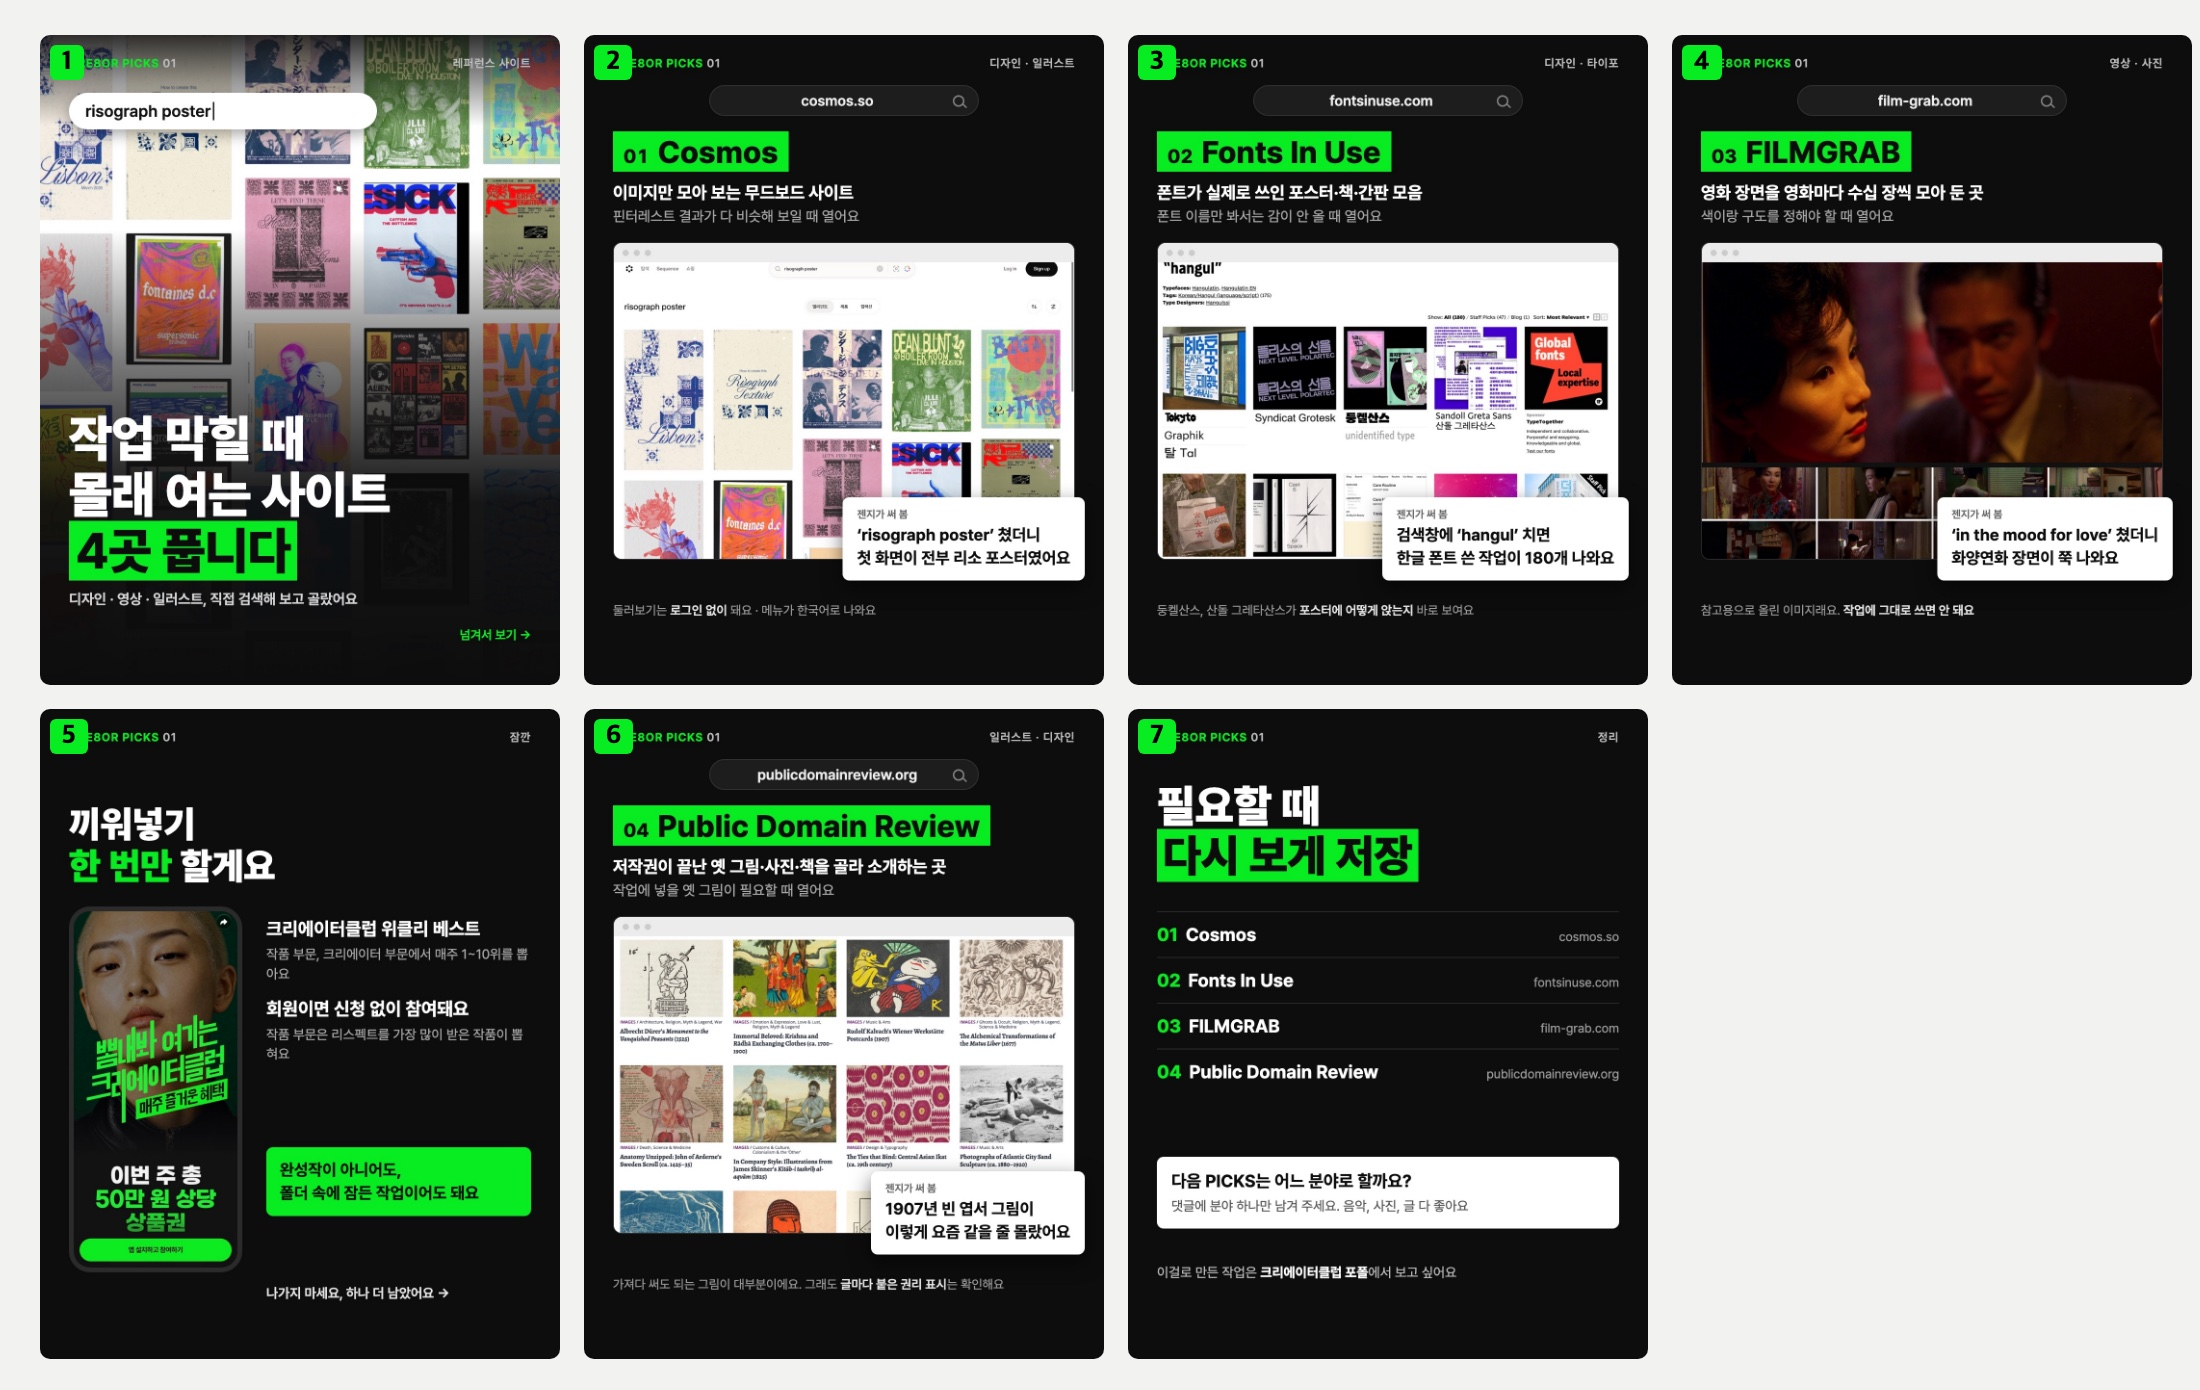
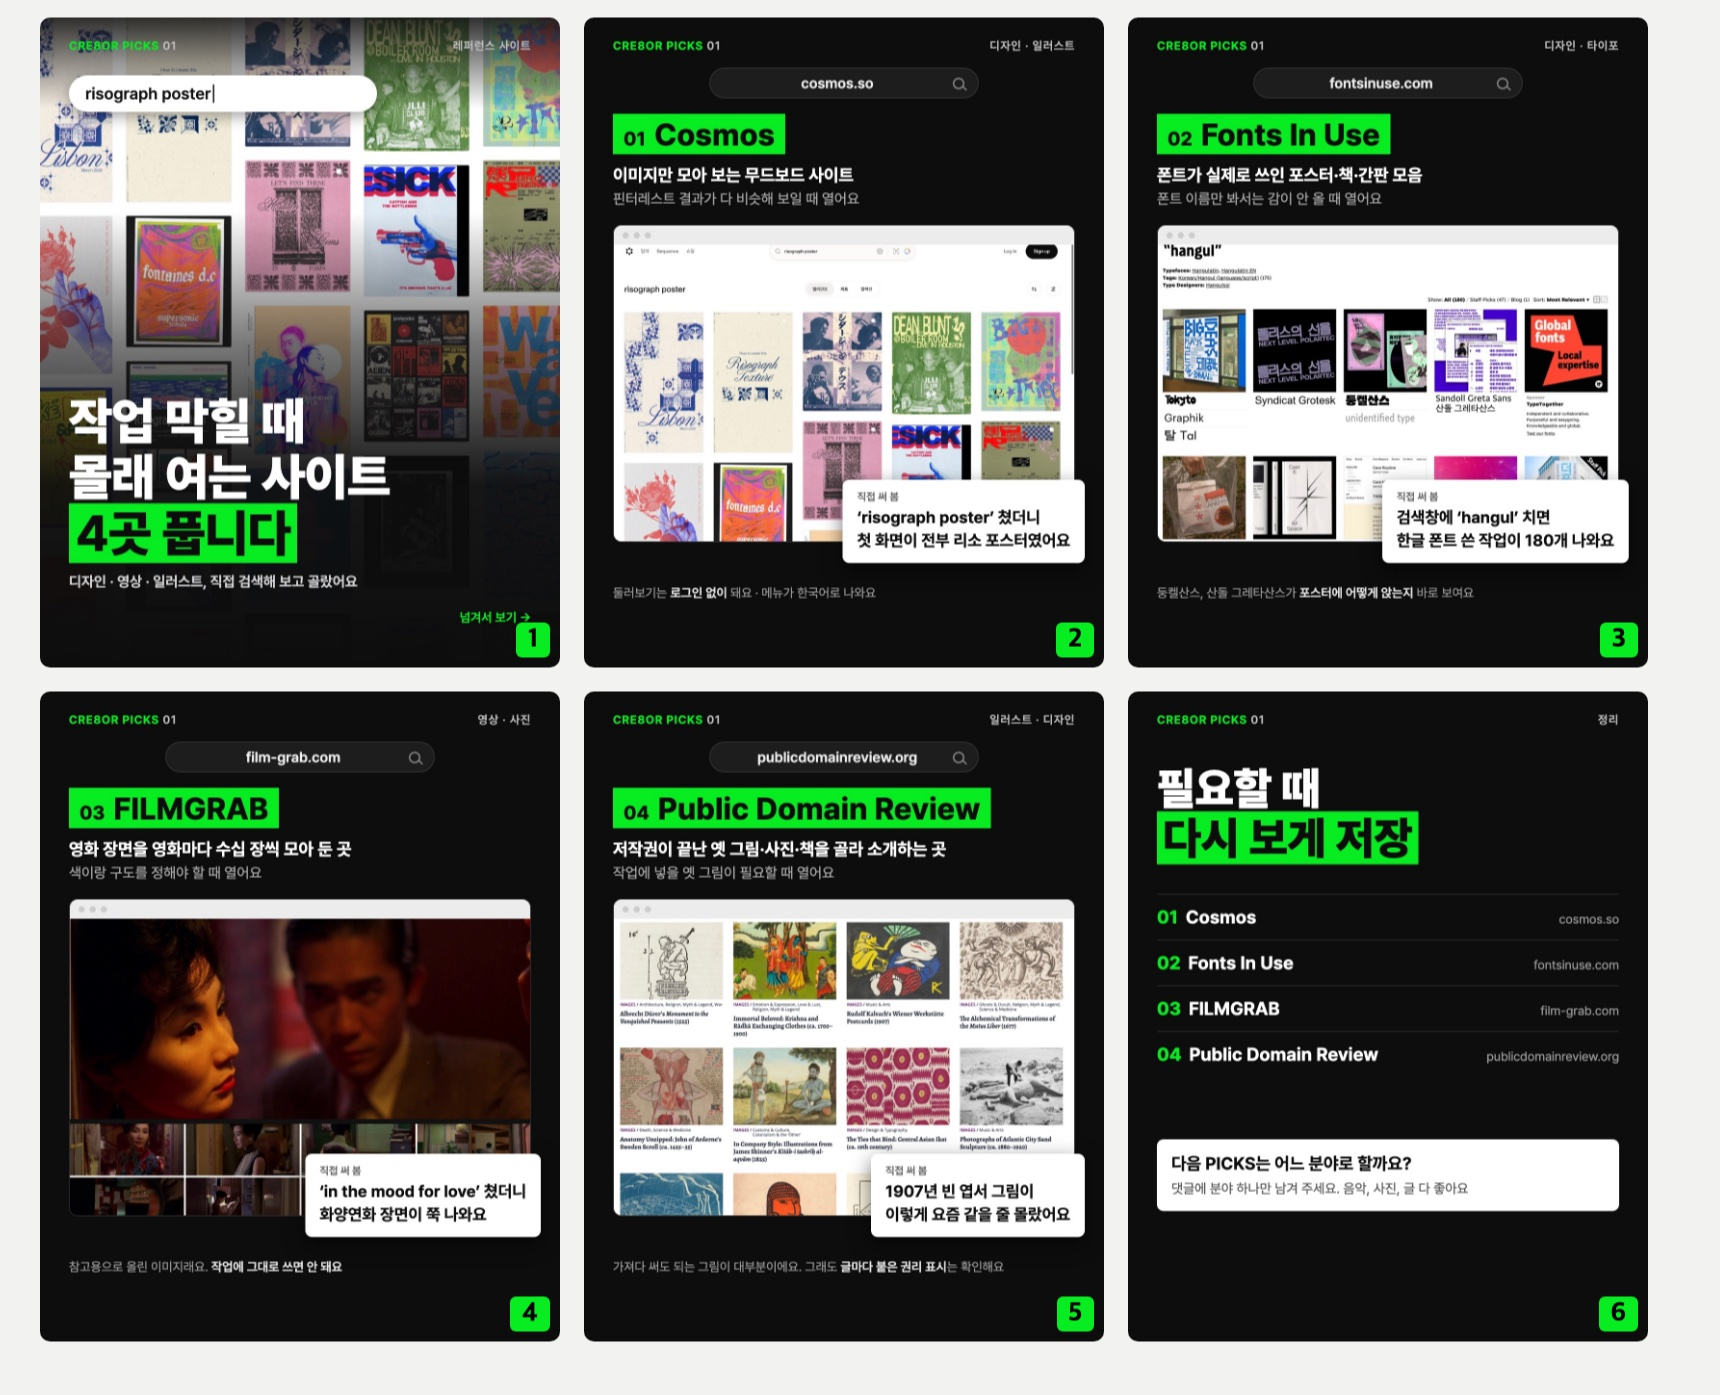
Deploy c8-insta-picks01-261030 → public-pages/ (redeploy, 2026-11-02)

diff --git a/c8-insta-picks01-261030/index.html b/c8-insta-picks01-261030/index.html
@@ -6,7 +6,7 @@
 <meta name="robots" content="noindex, nofollow">
 <title>인스타 시안 — CRE8OR PICKS 01 작업 막힐 때 몰래 여는 사이트</title>
 <meta property="og:title" content="인스타 시안 — CRE8OR PICKS 01 작업 막힐 때 몰래 여는 사이트">
-<meta property="og:description" content="창작자 레퍼런스 사이트 모음, 팁 모음형 캐러셀 7장 시안">
+<meta property="og:description" content="창작자 레퍼런스 사이트 모음, 팁 모음형 캐러셀 6장 시안">
 <meta property="og:image" content="slides/01.jpg">
 <style>
   * { box-sizing:border-box; margin:0; padding:0; }
@@ -47,9 +47,10 @@
 </head>
 <body>
 <div class="wrap">
-  <span class="tag">인스타 시안 · 팁 모음형 · CRE8OR PICKS 01 · 10/30</span>
+  <span class="tag">인스타 시안 · 팁 모음형 · CRE8OR PICKS 01 · 11/2 고침</span>
+  <div class="card" style="border:2px solid #07ED21"><h2>11/2 고친 것</h2><p>중간에 넣었던 위클리 베스트 광고 장을 뺐어요. 정보 전달 편이니 사이트 넷만 담백하게 보여 주고, 마지막 장의 크리에이터클럽 홍보 한 줄도 뺐어요. 7장 → 6장.</p></div>
   <h1>작업 막힐 때 몰래 여는 사이트 4곳 풉니다</h1>
-  <p class="sub">2EZ 「레퍼런스 계정·사이트 모음」의 틀(한 장에 하나 · 검색창 · 실제 화면 · 써 본 한마디 · 중간 끼워넣기 · 끝 저장)을 빌려 창작자용으로 만들었어요. 네 곳 모두 젠지가 10/30에 직접 열어 검색해 봤고, 장 안 화면은 그때 찍은 실제 화면이에요. 아직 시안이고 인스타에는 올리지 않았어요.</p>
+  <p class="sub">2EZ 「레퍼런스 계정·사이트 모음」의 틀(한 장에 하나 · 검색창 · 실제 화면 · 써 본 한마디 · 끝 저장)을 빌려 창작자용으로 만들었어요. 네 곳 모두 젠지가 10/30에 직접 열어 검색해 봤고, 장 안 화면은 그때 찍은 실제 화면이에요. 아직 시안이고 인스타에는 올리지 않았어요.</p>
   <div class="row">
     <div>
       <div class="phone">
@@ -57,11 +58,11 @@
         <div class="phead"><div class="av">C8</div><b>cre8orclub</b></div>
         <div class="media">
           <div class="track" id="track">
-            <img src="slides/01.jpg" alt="표지: 작업 막힐 때 몰래 여는 사이트 4곳 풉니다. 뒤에 리소 포스터 검색 결과가 꽉 차 있다"><img src="slides/02.jpg" alt="01 Cosmos 무드보드 사이트"><img src="slides/03.jpg" alt="02 Fonts In Use 폰트 실제 사용 사례"><img src="slides/04.jpg" alt="03 FILMGRAB 영화 장면 모음"><img src="slides/05.jpg" alt="끼워넣기 한 번만 할게요: 크리에이터클럽 위클리 베스트"><img src="slides/06.jpg" alt="04 Public Domain Review 저작권 끝난 옛 그림"><img src="slides/07.jpg" alt="필요할 때 다시 보게 저장, 다음 PICKS 분야 댓글">
+            <img src="slides/01.jpg" alt="표지: 작업 막힐 때 몰래 여는 사이트 4곳 풉니다. 뒤에 리소 포스터 검색 결과가 꽉 차 있다"><img src="slides/02.jpg" alt="01 Cosmos 무드보드 사이트"><img src="slides/03.jpg" alt="02 Fonts In Use 폰트 실제 사용 사례"><img src="slides/04.jpg" alt="03 FILMGRAB 영화 장면 모음"><img src="slides/05.jpg" alt="04 Public Domain Review 저작권 끝난 옛 그림"><img src="slides/06.jpg" alt="필요할 때 다시 보게 저장, 다음 PICKS 분야 댓글">
           </div>
           <button class="nav p" id="prev" aria-label="이전">‹</button>
           <button class="nav n" id="next" aria-label="다음">›</button>
-          <span class="count" id="count">1/7</span>
+          <span class="count" id="count">1/6</span>
         </div>
         <div class="acts"><span>♡</span><span>💬</span><span>↗</span><span class="s">⌑</span></div>
         <div class="cap"><b>cre8orclub</b>작업 막힐 때 몰래 여는 사이트 4곳이에요.
@@ -76,7 +77,7 @@
 다음 PICKS는 어느 분야로 할까요? 댓글에 분야 하나만요.
 #크리에이터클럽 #CRE8ORPICKS #레퍼런스 #레퍼런스사이트 #무드보드 #디자인레퍼런스 #타이포그래피 #영상레퍼런스</div>
       </div>
-      <p class="hint">사진을 옆으로 밀거나 ‹ › 를 누르면 7장을 넘겨 볼 수 있어요</p>
+      <p class="hint">사진을 옆으로 밀거나 ‹ › 를 누르면 6장을 넘겨 볼 수 있어요</p>
     </div>
     <div class="side">
       <div class="card">
@@ -86,7 +87,6 @@
           <li>도움: 장마다 사이트 하나, 검색어 하나, 언제 여는지 한 줄. 저장해 두면 바로 써먹어요.</li>
           <li>팔로우할 이유: 「CRE8OR PICKS 01」로 번호를 달고, 끝에 다음 분야를 댓글로 받아요.</li>
           <li>보낼 사람: 같이 작업하는 친구한테 「이거 저장해」. 받고 싶은 댓글: 「음악」「사진」 같은 분야 하나.</li>
-          <li>C8은 5장 「끼워넣기 한 번만 할게요」와 마지막 장 한 줄뿐이에요. 홍보 티는 웃고 넘어가요(2EZ 6장에서 빌림).</li>
         </ul>
       </div>
       <div class="card">
@@ -96,7 +96,6 @@
           <li>Fonts In Use: 「hangul」 검색 → All (180), 한글 태그 175개. 둥켈산스·산돌 그레타산스 사례가 첫 줄에 나옴.</li>
           <li>FILMGRAB: 「in the mood for love」 검색 → 화양연화 페이지, 장면 스틸 수십 장. 사이트 설명: 「참고와 교육 목적으로만 올린 이미지」.</li>
           <li>Public Domain Review: 이미지 모음 첫 화면에 1907년 칼바흐 빈 공방 엽서. 저작권 끝난 작품을 다루고 글마다 권리 표시를 붙여요.</li>
-          <li>위클리 베스트: 실제 이벤트 페이지(10/30)에서 「회원이면 신청 없이 참여」「작품·크리에이터 부문 각 1~10위」「폴더 속에 잠들어 있는 것도 괜찮아요」를 확인했어요.</li>
         </ul>
       </div>
       <div class="card">
@@ -104,18 +103,17 @@
         <ul>
           <li>장 안 사이트 화면에는 남의 작업(포스터·영화 장면)이 보여요. 출처 사이트 이름을 장마다 적었지만, 캡처를 써도 될지는 올리기 전 확인이 필요해요.</li>
           <li>음악 분야 사이트는 못 넣었어요(후보 사이트가 자동 접속을 막아 직접 확인을 못 함). 첫 호는 디자인·영상·일러스트 넷이에요.</li>
-          <li>5장 휴대폰 화면은 앱이 아니라 웹 이벤트 페이지 실제 캡처예요. 주차가 바뀌면 문구가 바뀔 수 있어요.</li>
         </ul>
       </div>
     </div>
   </div>
   <div class="grid">
-    <img src="slides/01.jpg" alt=""><img src="slides/02.jpg" alt=""><img src="slides/03.jpg" alt=""><img src="slides/04.jpg" alt=""><img src="slides/05.jpg" alt=""><img src="slides/06.jpg" alt=""><img src="slides/07.jpg" alt="">
+    <img src="slides/01.jpg" alt=""><img src="slides/02.jpg" alt=""><img src="slides/03.jpg" alt=""><img src="slides/04.jpg" alt=""><img src="slides/05.jpg" alt=""><img src="slides/06.jpg" alt="">
   </div>
 </div>
 <script>
   const t = document.getElementById('track'), c = document.getElementById('count');
-  const p = document.getElementById('prev'), n = document.getElementById('next'), N = 7;
+  const p = document.getElementById('prev'), n = document.getElementById('next'), N = 6;
   const idx = () => Math.round(t.scrollLeft / t.clientWidth);
   const sync = () => { const i = idx(); c.textContent = (i + 1) + '/' + N; p.disabled = i === 0; n.disabled = i === N - 1; };
   t.addEventListener('scroll', sync);
